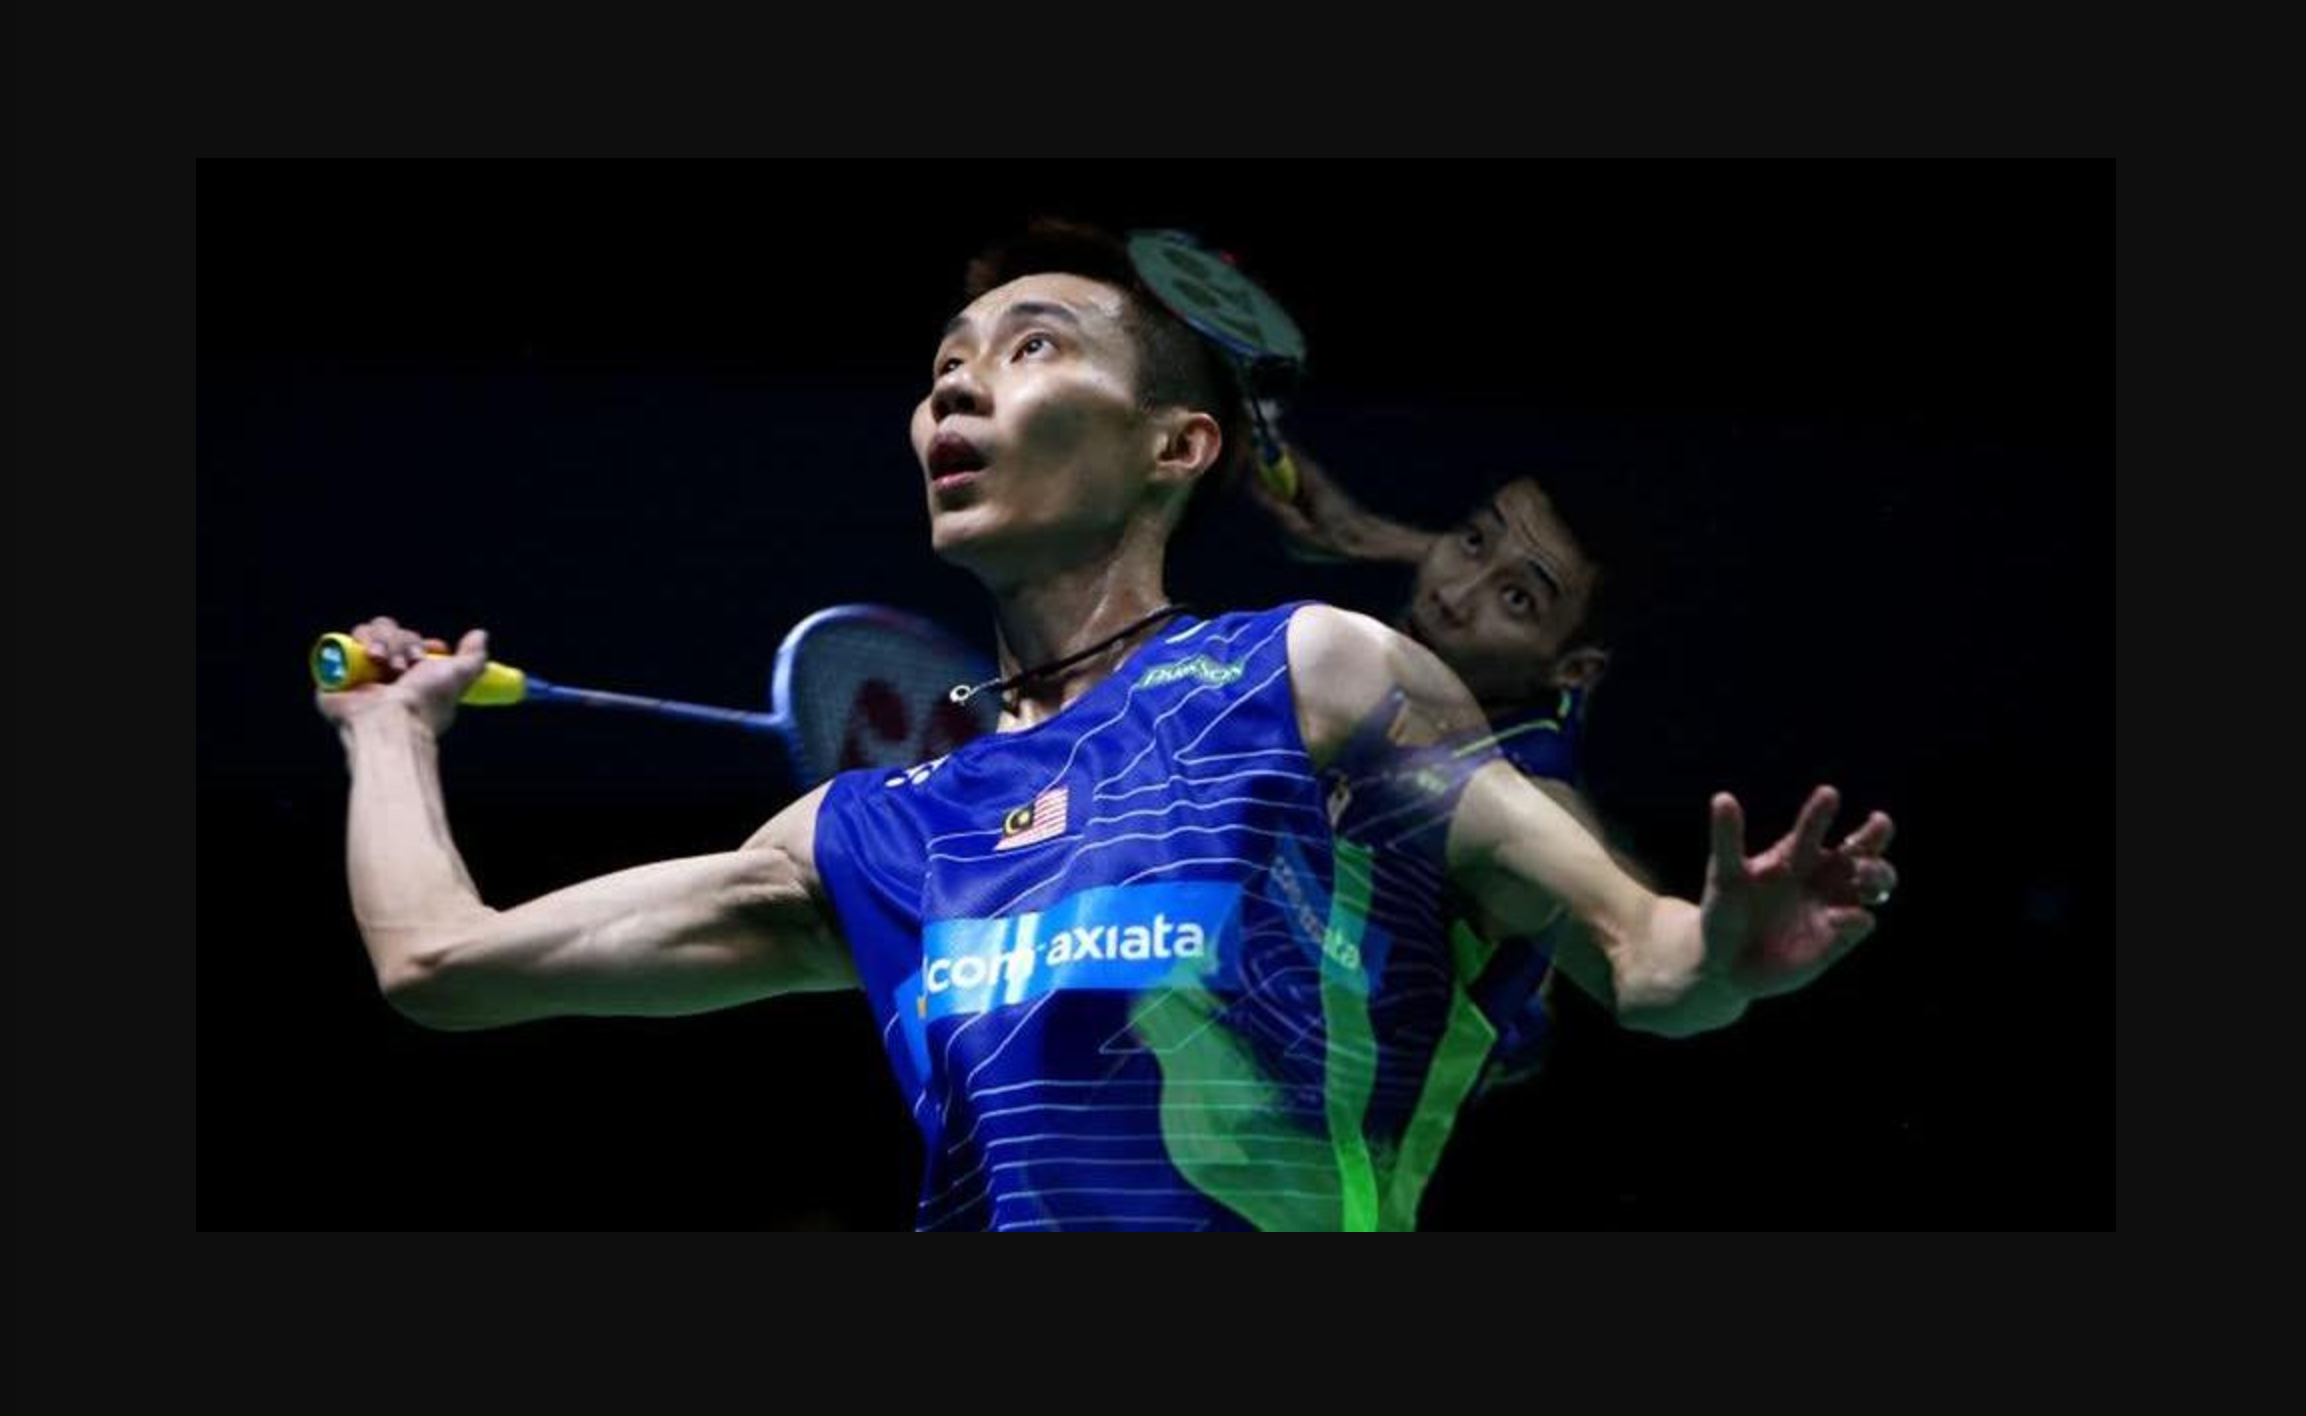
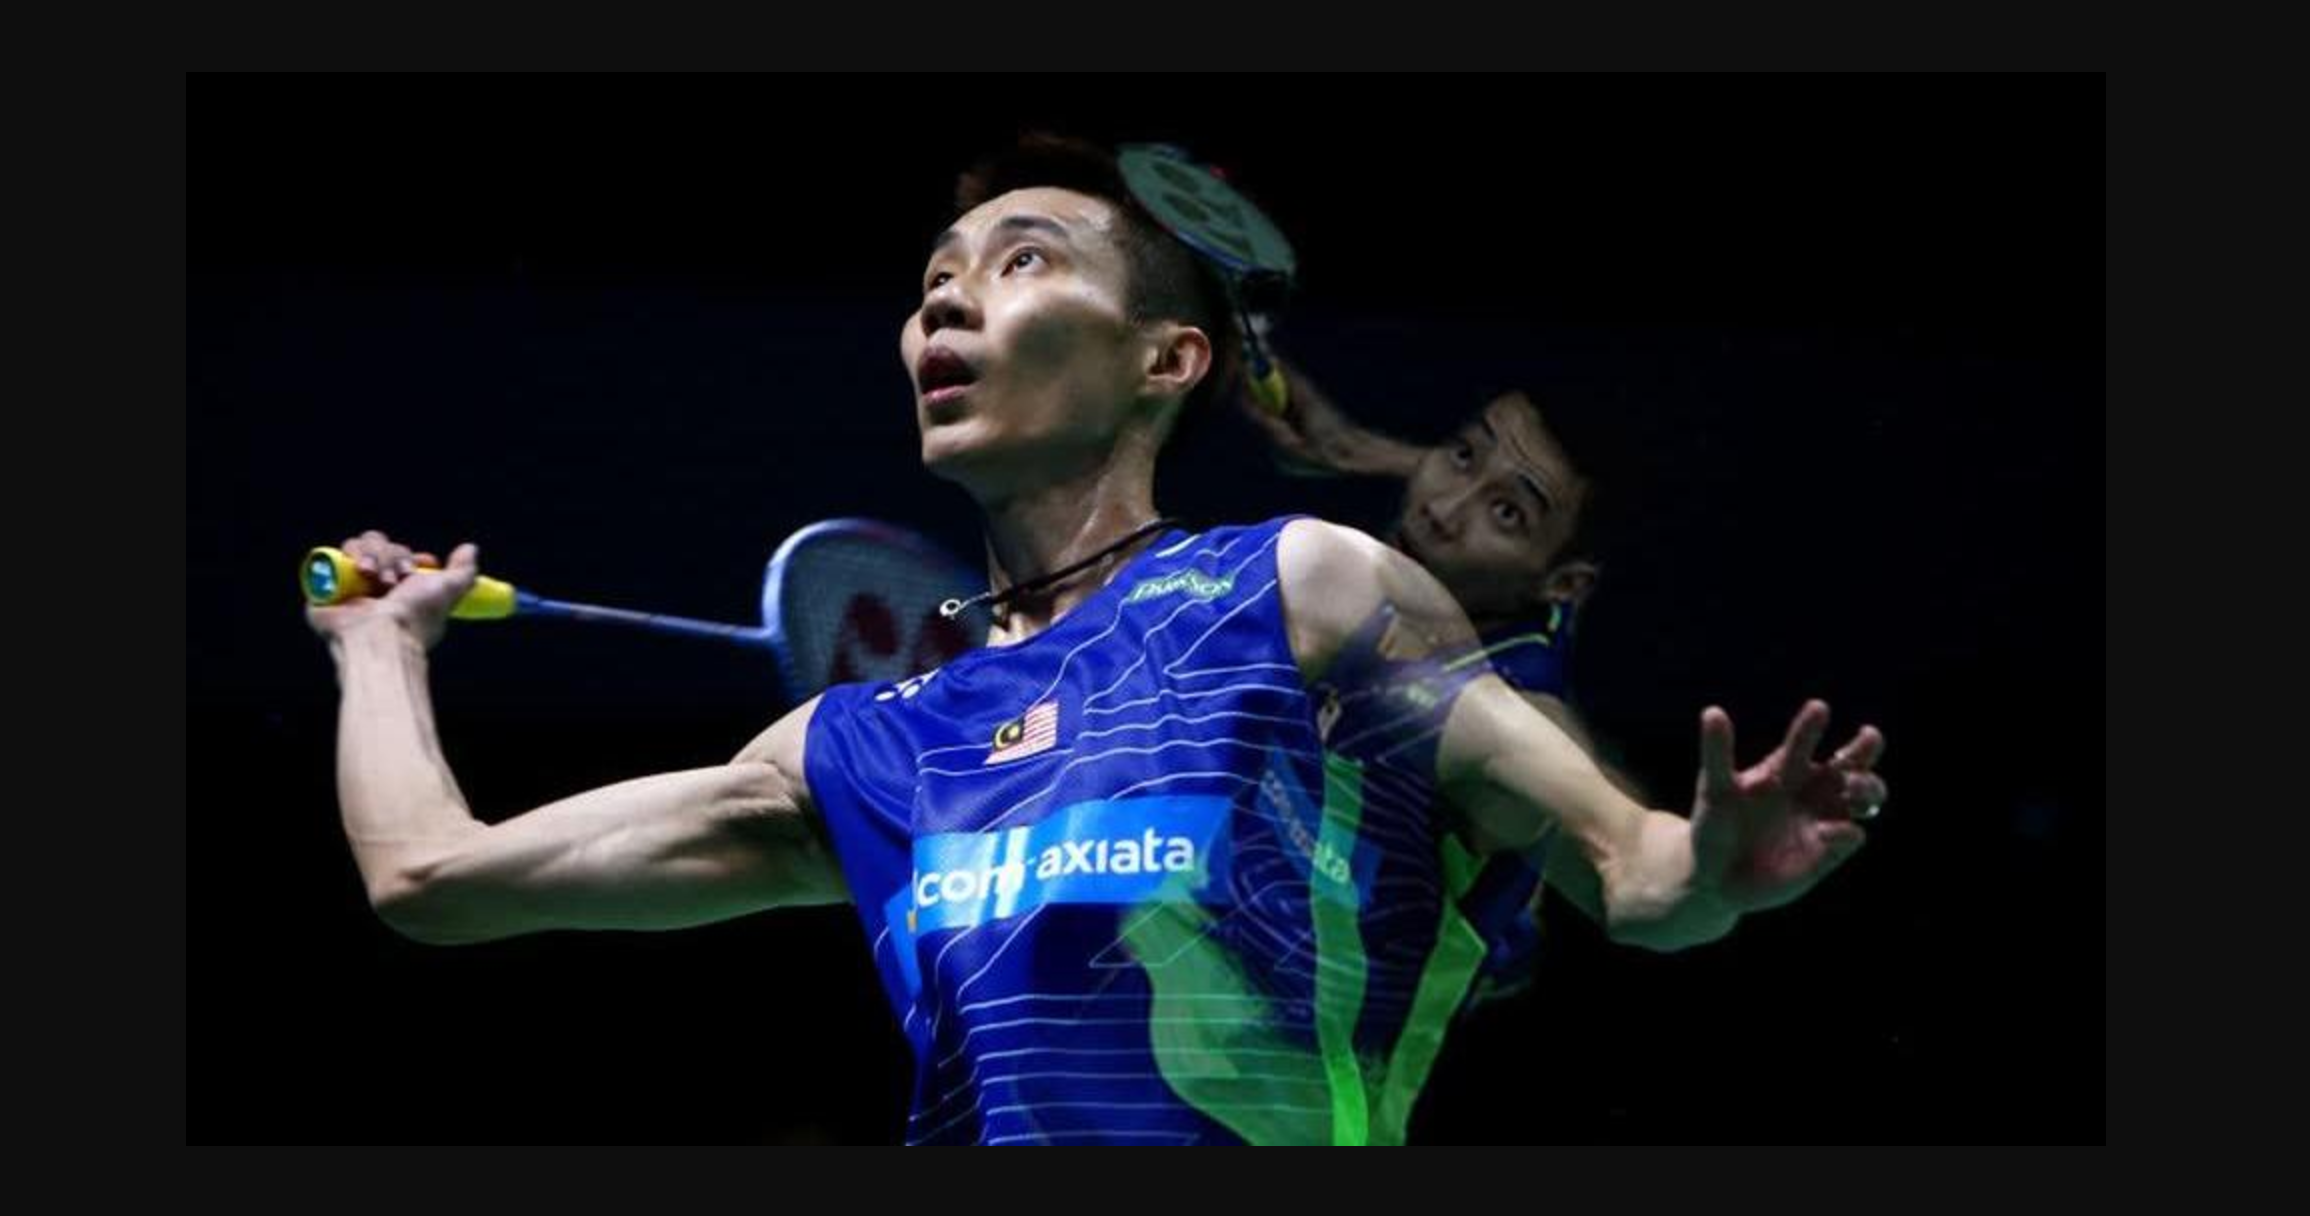
update app/assets/stylesheets/application.scss

Changed region(s): [[0.1249, 0.125, 0.843, 0.9688]]

diff --git a/app/assets/stylesheets/application.scss b/app/assets/stylesheets/application.scss
@@ -18,37 +18,39 @@
  @import "font-awesome";
 
  .box {
-     background-image: url("https://ws2.sinaimg.cn/large/006tNc79gy1fg9fae5vxoj31kw0yyhdt.jpg");
+     background-image: url("https://ws3.sinaimg.cn/large/006tNc79gy1fgap672itgj31kw0tyhdt.jpg");
      background-repeat: no-repeat;
-     background-size: cover;
-     margin-bottom: 10px;
+     background-size: 100%;
+     margin-bottom: 0px;
      margin-top: -20px;
 
 
      .box-inner {
-         padding-bottom: 10px;
+         padding-bottom: 0px;
          margin-top: 150px;
-         margin-bottom: 150px;
+         margin-bottom: 50px;
      }
 
      .title {
          text-align: center;
-         margin-bottom: 10px;
+         margin-top: 180px;
+         margin-bottom: 80px;
          color: #FF9933;
      }
 
      .slogan {
          color: #FF9933;
-         margin-top: 30px;
-         margin-bottom: 70px;
+         margin-top: 120px;
+         margin-bottom: 0px;
          text-align: center;
          font-size: 35px;
-         top: 22px;
+         top: 52px;
      }
 
      .lead {
-         margin-bottom: 110px;
+         margin-top: 70px;
+         margin-bottom: -30px;
          text-align: center;
-         color: white;
+         color: #FF0000;
      }
  }
